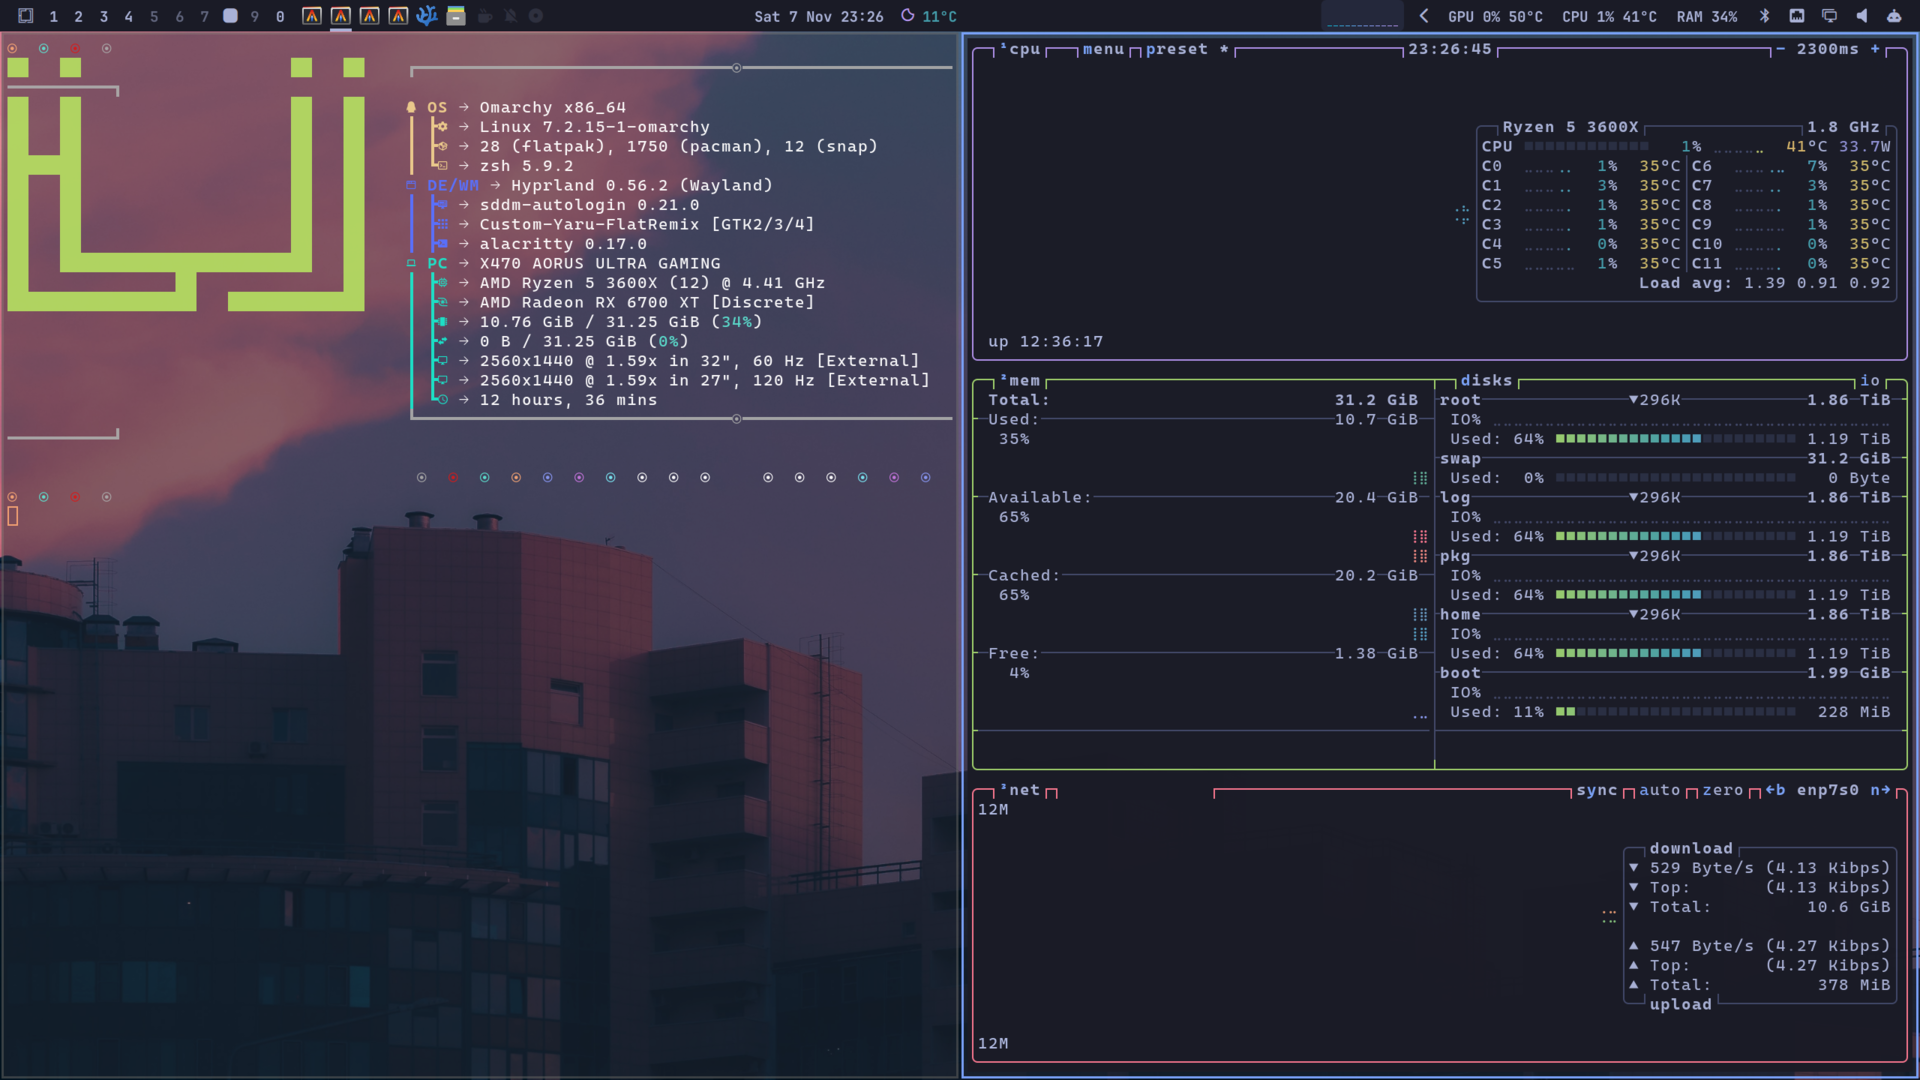
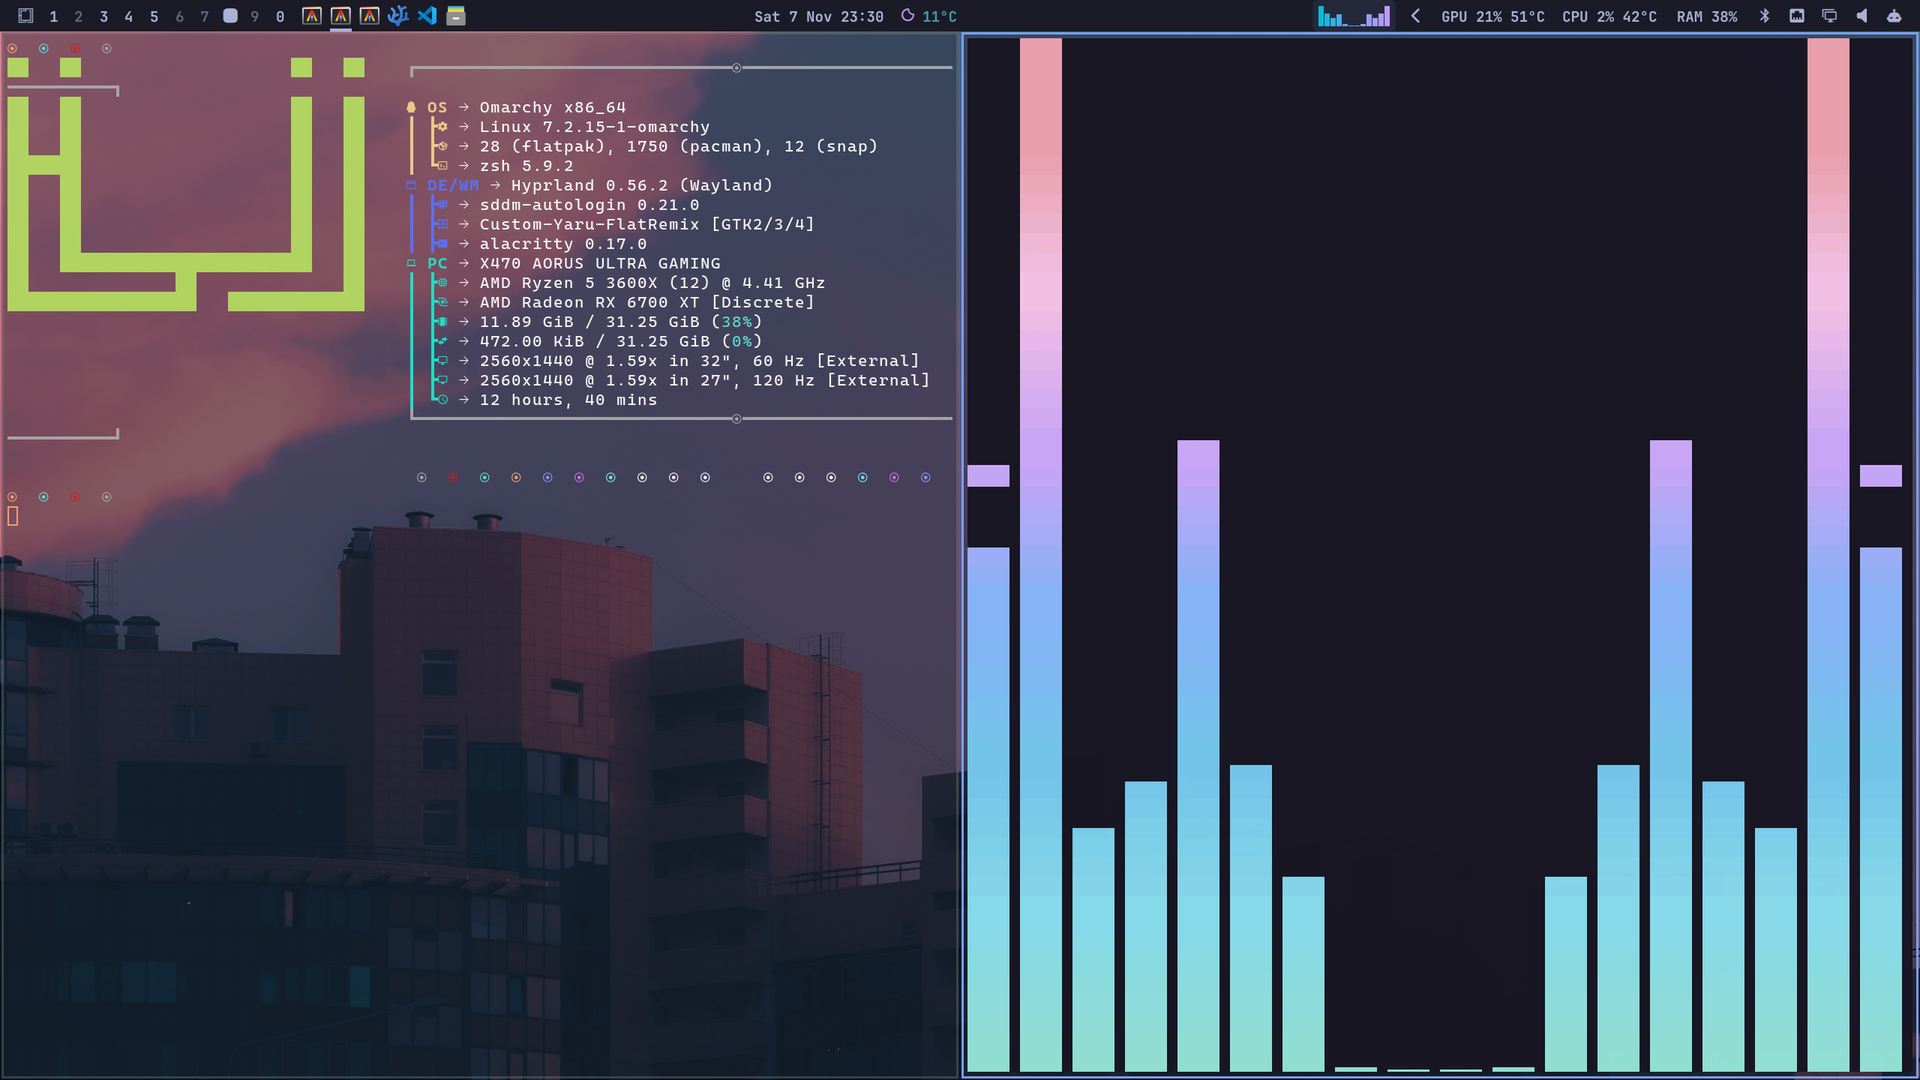
Retake screenshot with Cava

diff --git a/README.md b/README.md
@@ -6,7 +6,7 @@
 [![Shell: Zsh](https://img.shields.io/badge/Shell-Zsh-F15A24?style=for-the-badge&logo=zsh&logoColor=white)](https://www.zsh.org)
 [![Terminal: Alacritty](https://img.shields.io/badge/Terminal-Alacritty-F46D01?style=for-the-badge&logo=alacritty&logoColor=white)](https://alacritty.org)
 
-![Desktop screenshot: Fastfetch and btop in Alacritty under the Omarchy bar](docs/screenshot.png)
+![Desktop screenshot: Fastfetch and Cava in Alacritty under the Omarchy bar](docs/screenshot.png)
 
 Personal Hyprland (Lua config) and Omarchy shell bar setup for Omarchy 4.5
 "Quattro" (Hyprland 0.56). Files under `home/` mirror their place in `$HOME`.
